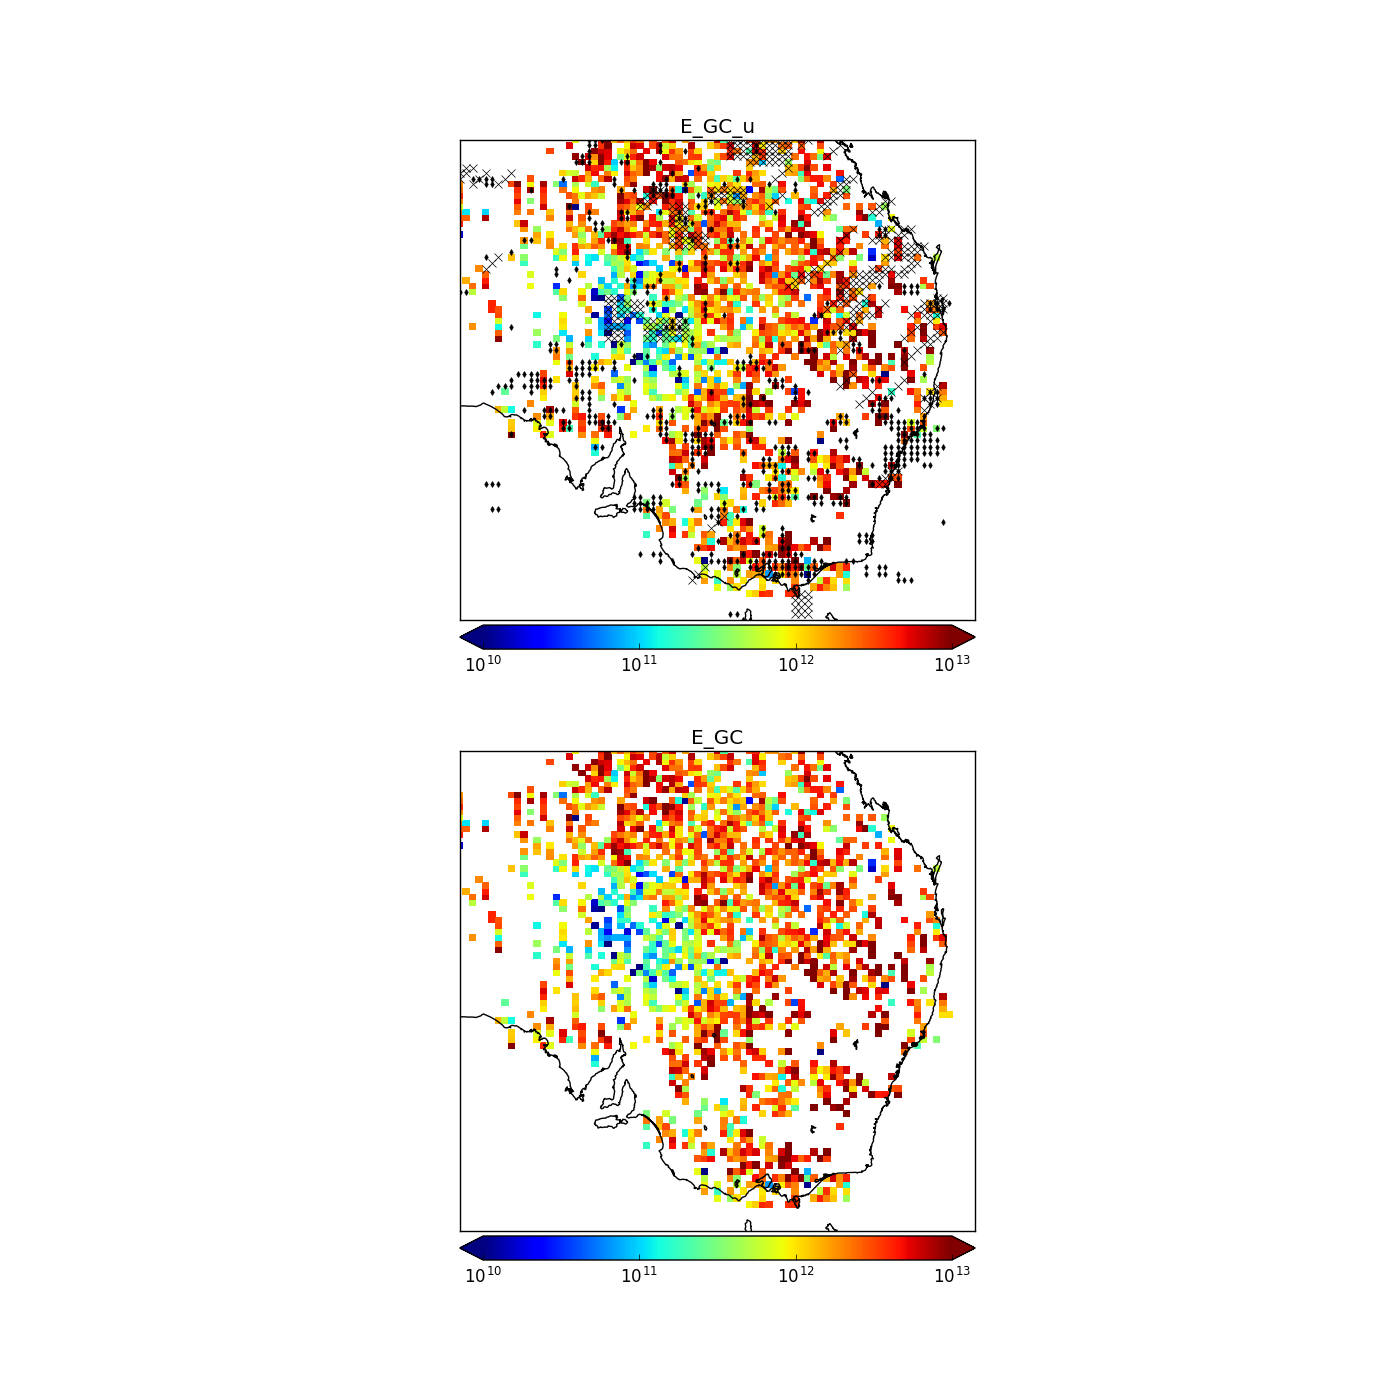
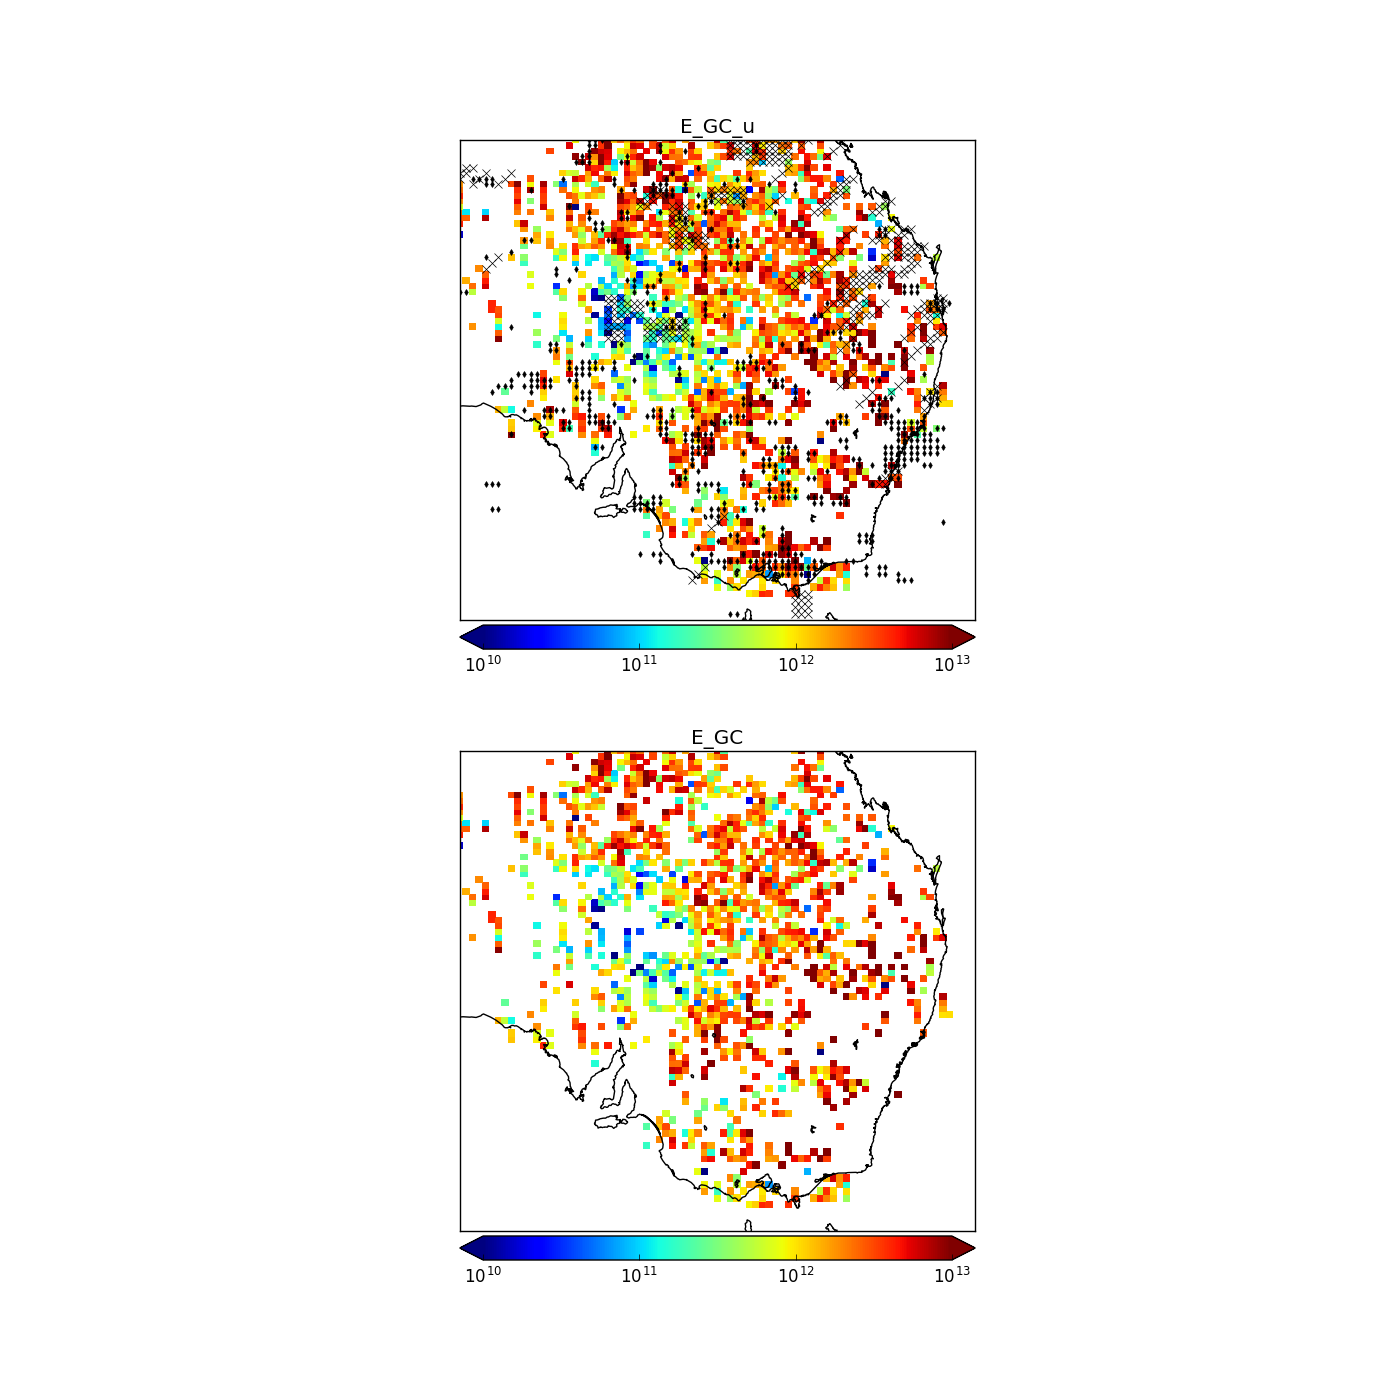
Updated e_new creation in localtests.py

diff --git a/localtests.py b/localtests.py
@@ -108,6 +108,7 @@ OMHsubsets=util.lat_lon_subset(OMHCHORP.lats,OMHCHORP.lons,region,data=arrs, has
 omilats=OMHsubsets['lats']
 omilons=OMHsubsets['lons']
 omilati=OMHsubsets['lati']
+omiloni=OMHsubsets['loni']
 # map subsetted arrays into another dictionary
 OMHsub = {s:OMHsubsets['data'][arrs_i[s]] for s in arrs_names}
 
@@ -211,92 +212,78 @@ if True:
     plt.close()
 
 
-for i,day in enumerate(days):
-    if True:
-        if i==2:
-            break
-
-    BG_VCCi = BG_VCCa[i]
-    BG_PPi  = BG_PPa[i]
-    BG_OMIi = BG_OMIa[i]
-
-    # can check that reshaping makes sense with:
-    #bgcolumn=np.copy(BG_VCCi)
-    #BG_VCCi = BG_VCCi.repeat(len(omilons)).reshape([len(omilats),len(omilons)])
-    # check all values in column are either equal or both nan
-    #assert all( (bgcolumn == BG_VCCi[:,0]) + (np.isnan(bgcolumn) * np.isnan(BG_VCCi[:,0])))
-
-    # we only want the subset of background values matching our region
-    BG_VCCi = BG_VCCi[omilati]
-    BG_PPi  = BG_PPi[omilati]
-    BG_OMIi = BG_OMIi[omilati]
-
-    plt.plot(omilats,BG_VCCi,'r',label='BG VCC %d'%i)
-    plt.plot(omilats,BG_OMIi,'m', label='BG OMI %d'%i)
-    if i==1:
-        plt.legend()
-        plt.title('Background over latitude')
-
-    # The backgrounds need to be the same shape so we can subtract from whole array at once.
-    # done by repeating the BG values ([lats]) N times, then reshaping to [lats,N]
-    BG_VCCi = BG_VCCi.repeat(len(omilons)).reshape([len(omilats),len(omilons)])
-    BG_PPi  = BG_PPi.repeat(len(omilons)).reshape([len(omilats),len(omilons)])
-    BG_OMIi = BG_OMIi.repeat(len(omilons)).reshape([len(omilats),len(omilons)])
+# cut the omhchorp backgrounds down to our latitudes
+BG_VCC = BG_VCCa[:,omilati]
+BG_PP = BG_PPa[:,omilati]
+BG_OMI = BG_OMIa[:,omilati]
+# Repeat them along our longitudes so we don't need to loop
+BG_VCC = np.repeat(BG_VCC[:,:,np.newaxis],len(omiloni),axis=2)
+BG_PP = np.repeat(BG_PP[:,:,np.newaxis],len(omiloni),axis=2)
+BG_OMI = np.repeat(BG_OMI[:,:,np.newaxis],len(omiloni),axis=2)
+# Also repeat Slope array along time axis to avoid looping
+GC_slope= np.repeat(GC_slope[np.newaxis,:,:], len(days),axis=0)
 
 
-    # Store the backgrounds for later analysis
-    BG_VCC[i,:,:] = BG_VCCi
-    BG_PP[i,:,:]  = BG_PPi
-    BG_OMI[i,:,:] = BG_OMIi
 
-    # Run calculation with no filters applied:
-    E_gc_u[i,:,:]       = (VCC_GC[i] - BG_VCCi) / GC_slope
-    E_pp_u[i,:,:]       = (VCC_PP[i] - BG_PPi) / GC_slope
-    E_omi_u[i,:,:]      = (VCC_OMI[i] - BG_OMIi) / GC_slope
+if True:
+    print("Enew Calc Shapes")
+    print(VCC_GC.shape,BG_VCC.shape,GC_slope.shape)
+    plt.plot(omilats,BG_VCC[0,:,0],'r',label='BG VCC')
+    plt.plot(omilats,BG_OMI[0,:,0],'m', label='BG OMI')
+    plt.legend()
+    plt.title('Background over latitude')
 
-    # run with filters
-    # apply filters
-    allmasks            = firefilter[i] + anthrofilter[i] # + smearfilter
-    print('FILTER DEETS')
-    print(allmasks.shape)
-    print(np.nansum(allmasks))
+# Run calculation with no filters applied:
+E_gc_u       = (VCC_GC - BG_VCC) / GC_slope
+E_pp_u       = (VCC_PP - BG_PP) / GC_slope
+E_omi_u      = (VCC_OMI - BG_OMI) / GC_slope
 
-    assert not np.isnan(np.nansum(VCC_GC[i][allmasks])), 'Filtering nothing!?'
+# run with filters
+# apply filters
+allmasks            = (firefilter + anthrofilter)>0 # + smearfilter
+print('FILTER DEETS')
+print(allmasks.shape)
+print(E_gc.shape)
+print(np.nansum(allmasks))
+print(np.nanmean(E_gc_u),np.nanmean(E_gc_u[allmasks]))
 
-    # estimate emissions
-    E_gc[i,:,:]         = np.copy(E_gc_u[i])
-    E_pp[i,:,:]         = np.copy(E_pp_u[i])
-    E_omi[i,:,:]        = np.copy(E_pp_u[i])
-    E_gc[i][allmasks]   = np.NaN
-    E_pp[i,allmasks]   = np.NaN
-    E_omi[i,allmasks]   = np.NaN
-    if i == 0:
-        # lets have a close look at these things
-        vmin=1e10
-        vmax=1e13
-        f=plt.figure(figsize=(14,14))
-        plt.subplot(211)
-        # Plot E_new before and after filtering
-        m,cs,cb=pp.createmap(E_gc_u[i],omilats,omilons, title='E_GC_u', region=[-40,130,-20,155],
-                             vmin=vmin,vmax=vmax)
 
-        # plot dots where filter should be
-        for yi,y in enumerate(omilats):
-            for xi,x in enumerate(omilons):
-                if firefilter[i,yi,xi]:
-                   mx,my = m(x,y)
-                   m.plot(mx,my,'x',markersize=6,color='k')
-                if anthrofilter[i,yi,xi]:
-                   mx,my = m(x,y)
-                   m.plot(mx,my,'d',markersize=3,color='k')
-        plt.subplot(212)
-        m,cs,cb=pp.createmap(E_gc[i],omilats,omilons, title='E_GC', region=[-40,130,-20,155],
-                             vmin=vmin,vmax=vmax)
+assert not np.isnan(np.nansum(E_gc_u[allmasks])), 'Filtering nothing!?'
 
-        pname='temp_E_filtering_check.png'
-        plt.savefig(pname)
-        print('saved ',pname)
-        plt.close()
+# Mask gridsquares using fire and anthro filters
+E_gc                = np.copy(E_gc_u)
+E_pp                = np.copy(E_pp_u)
+E_omi               = np.copy(E_pp_u)
+E_gc[allmasks]      = np.NaN
+E_pp[allmasks]      = np.NaN
+E_omi[allmasks]     = np.NaN
+if True:
+    # lets have a close look at these things
+    vmin=1e10
+    vmax=1e13
+    f=plt.figure(figsize=(14,14))
+    plt.subplot(211)
+    # Plot E_new before and after filtering
+    m,cs,cb=pp.createmap(E_gc_u[0],omilats,omilons, title='E_GC_u', region=[-40,130,-20,155],
+                         vmin=vmin,vmax=vmax)
+
+    # plot dots where filter should be
+    for yi,y in enumerate(omilats):
+        for xi,x in enumerate(omilons):
+            if firefilter[0,yi,xi]:
+               mx,my = m(x,y)
+               m.plot(mx,my,'x',markersize=6,color='k')
+            if anthrofilter[0,yi,xi]:
+               mx,my = m(x,y)
+               m.plot(mx,my,'d',markersize=3,color='k')
+    plt.subplot(212)
+    m,cs,cb=pp.createmap(E_gc[0],omilats,omilons, title='E_GC', region=[-40,130,-20,155],
+                         vmin=vmin,vmax=vmax)
+
+    pname='temp_E_filtering_check.png'
+    plt.savefig(pname)
+    print('saved ',pname)
+    plt.close()
 
 if True:
     vmin=0
